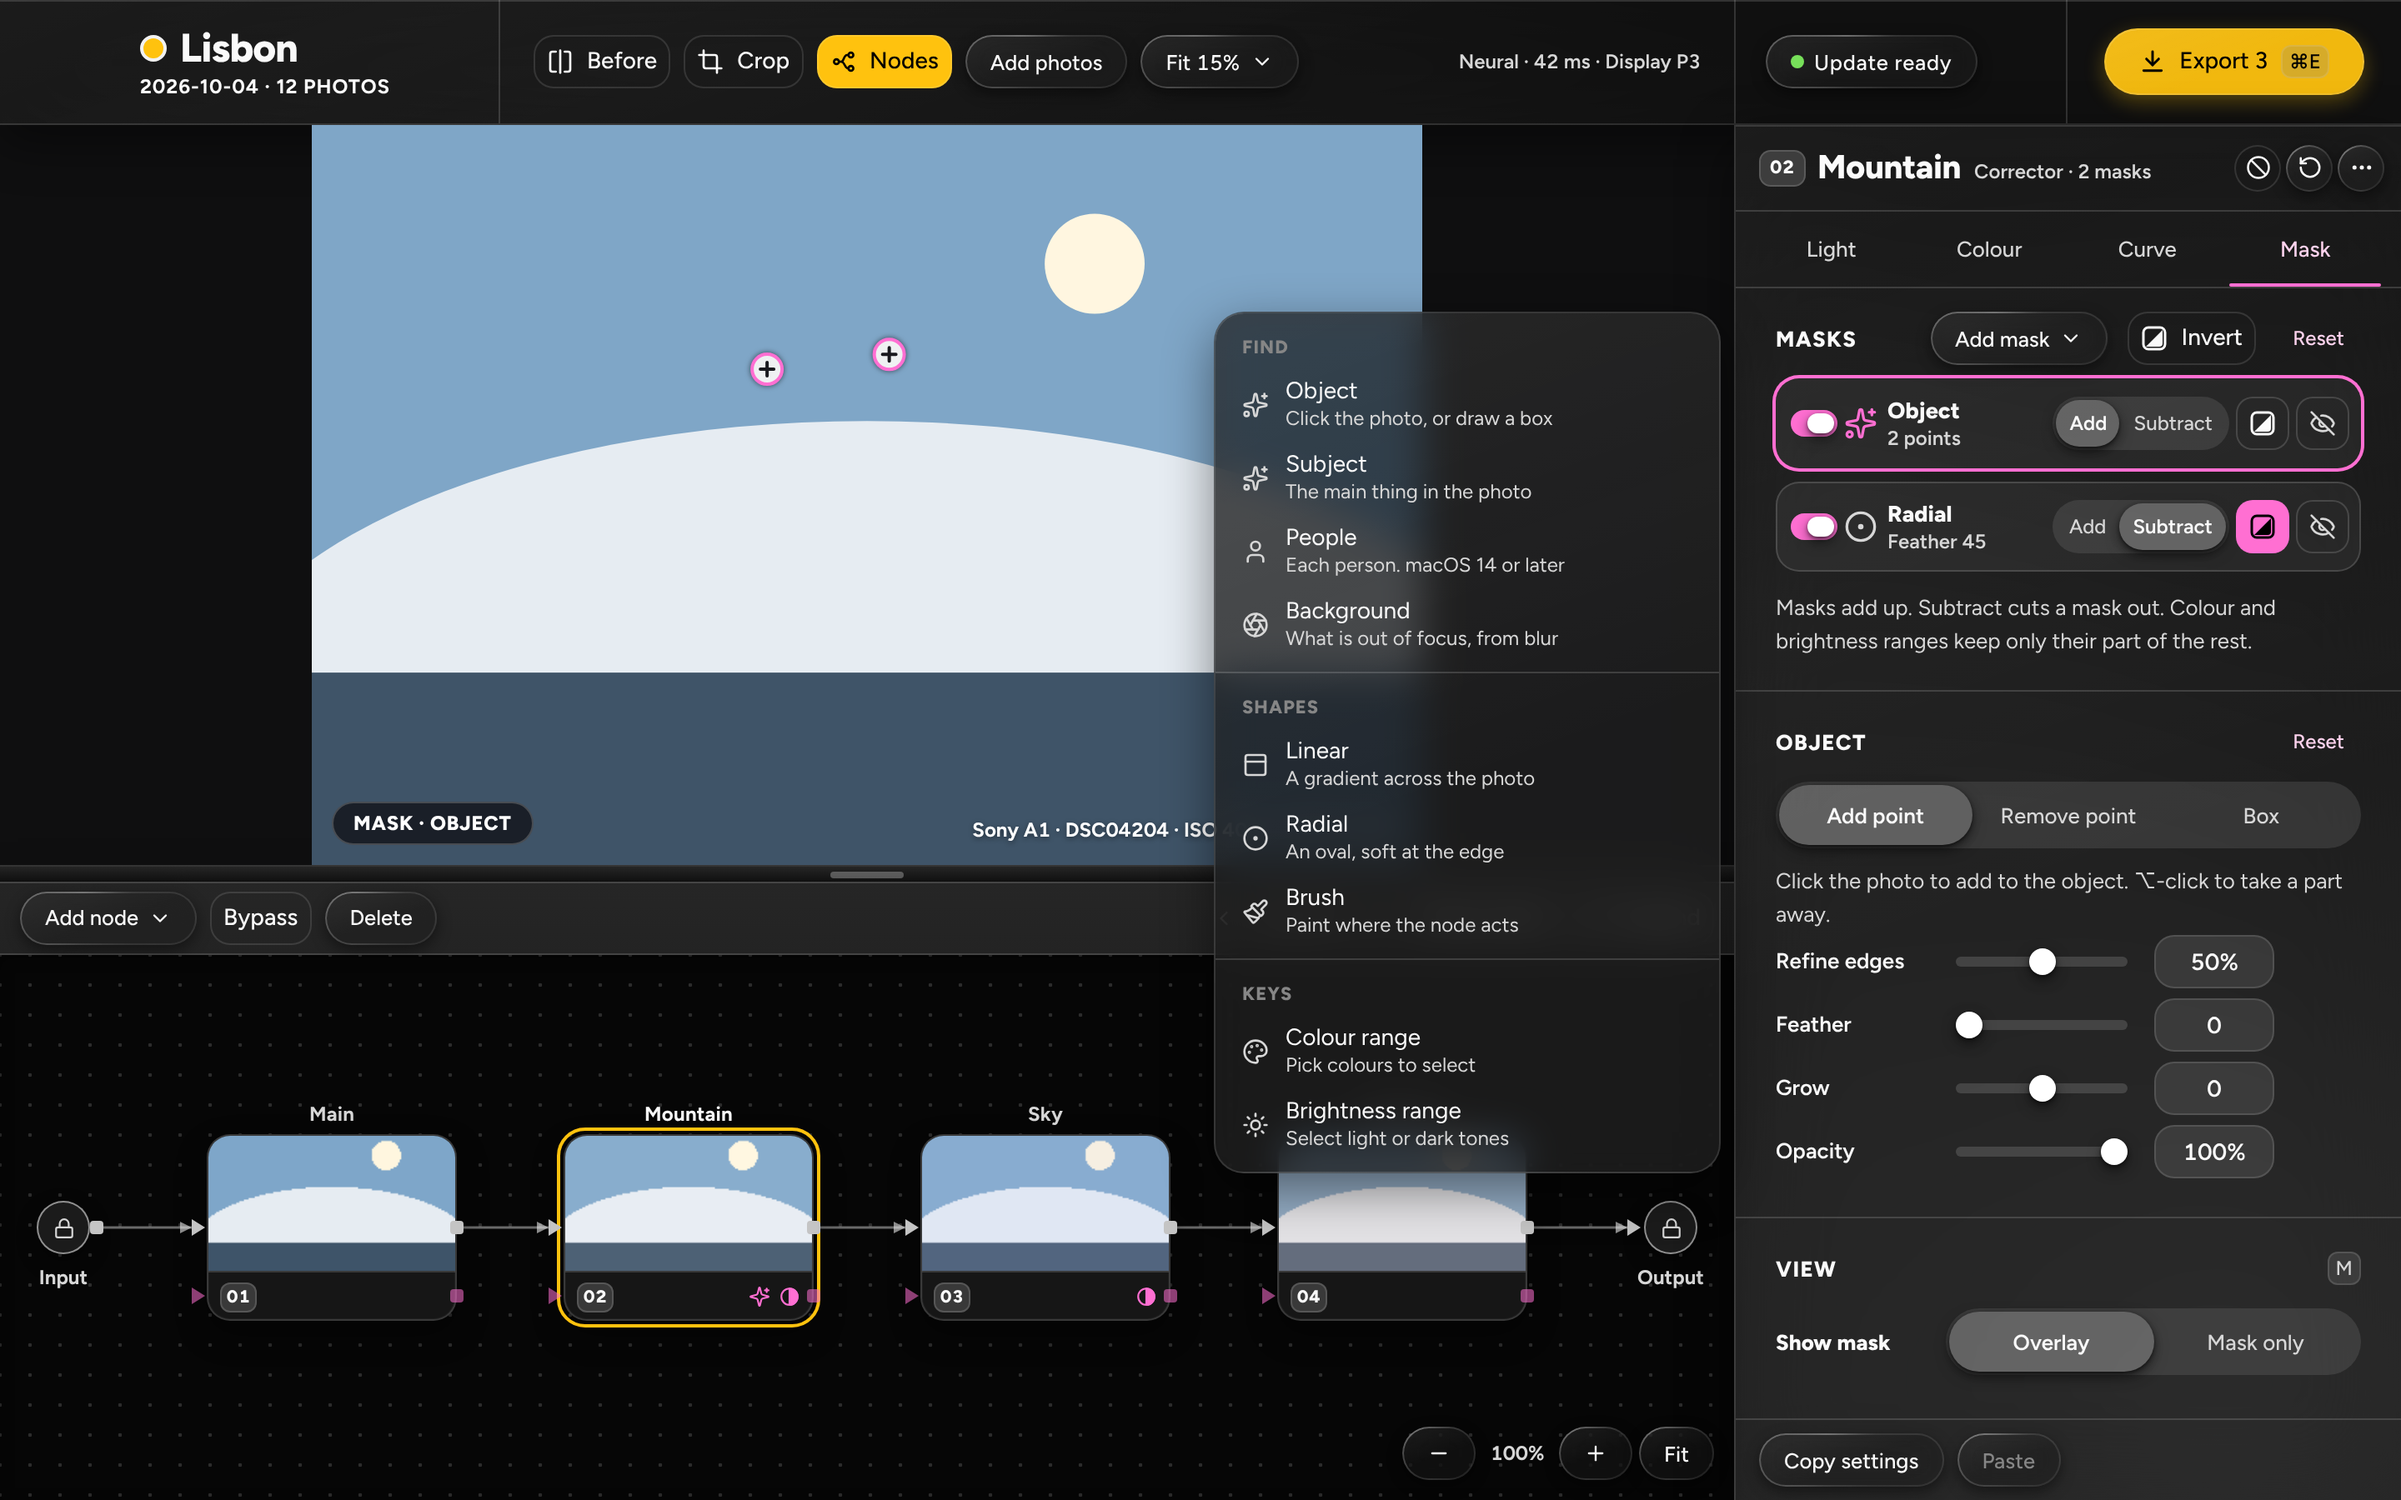
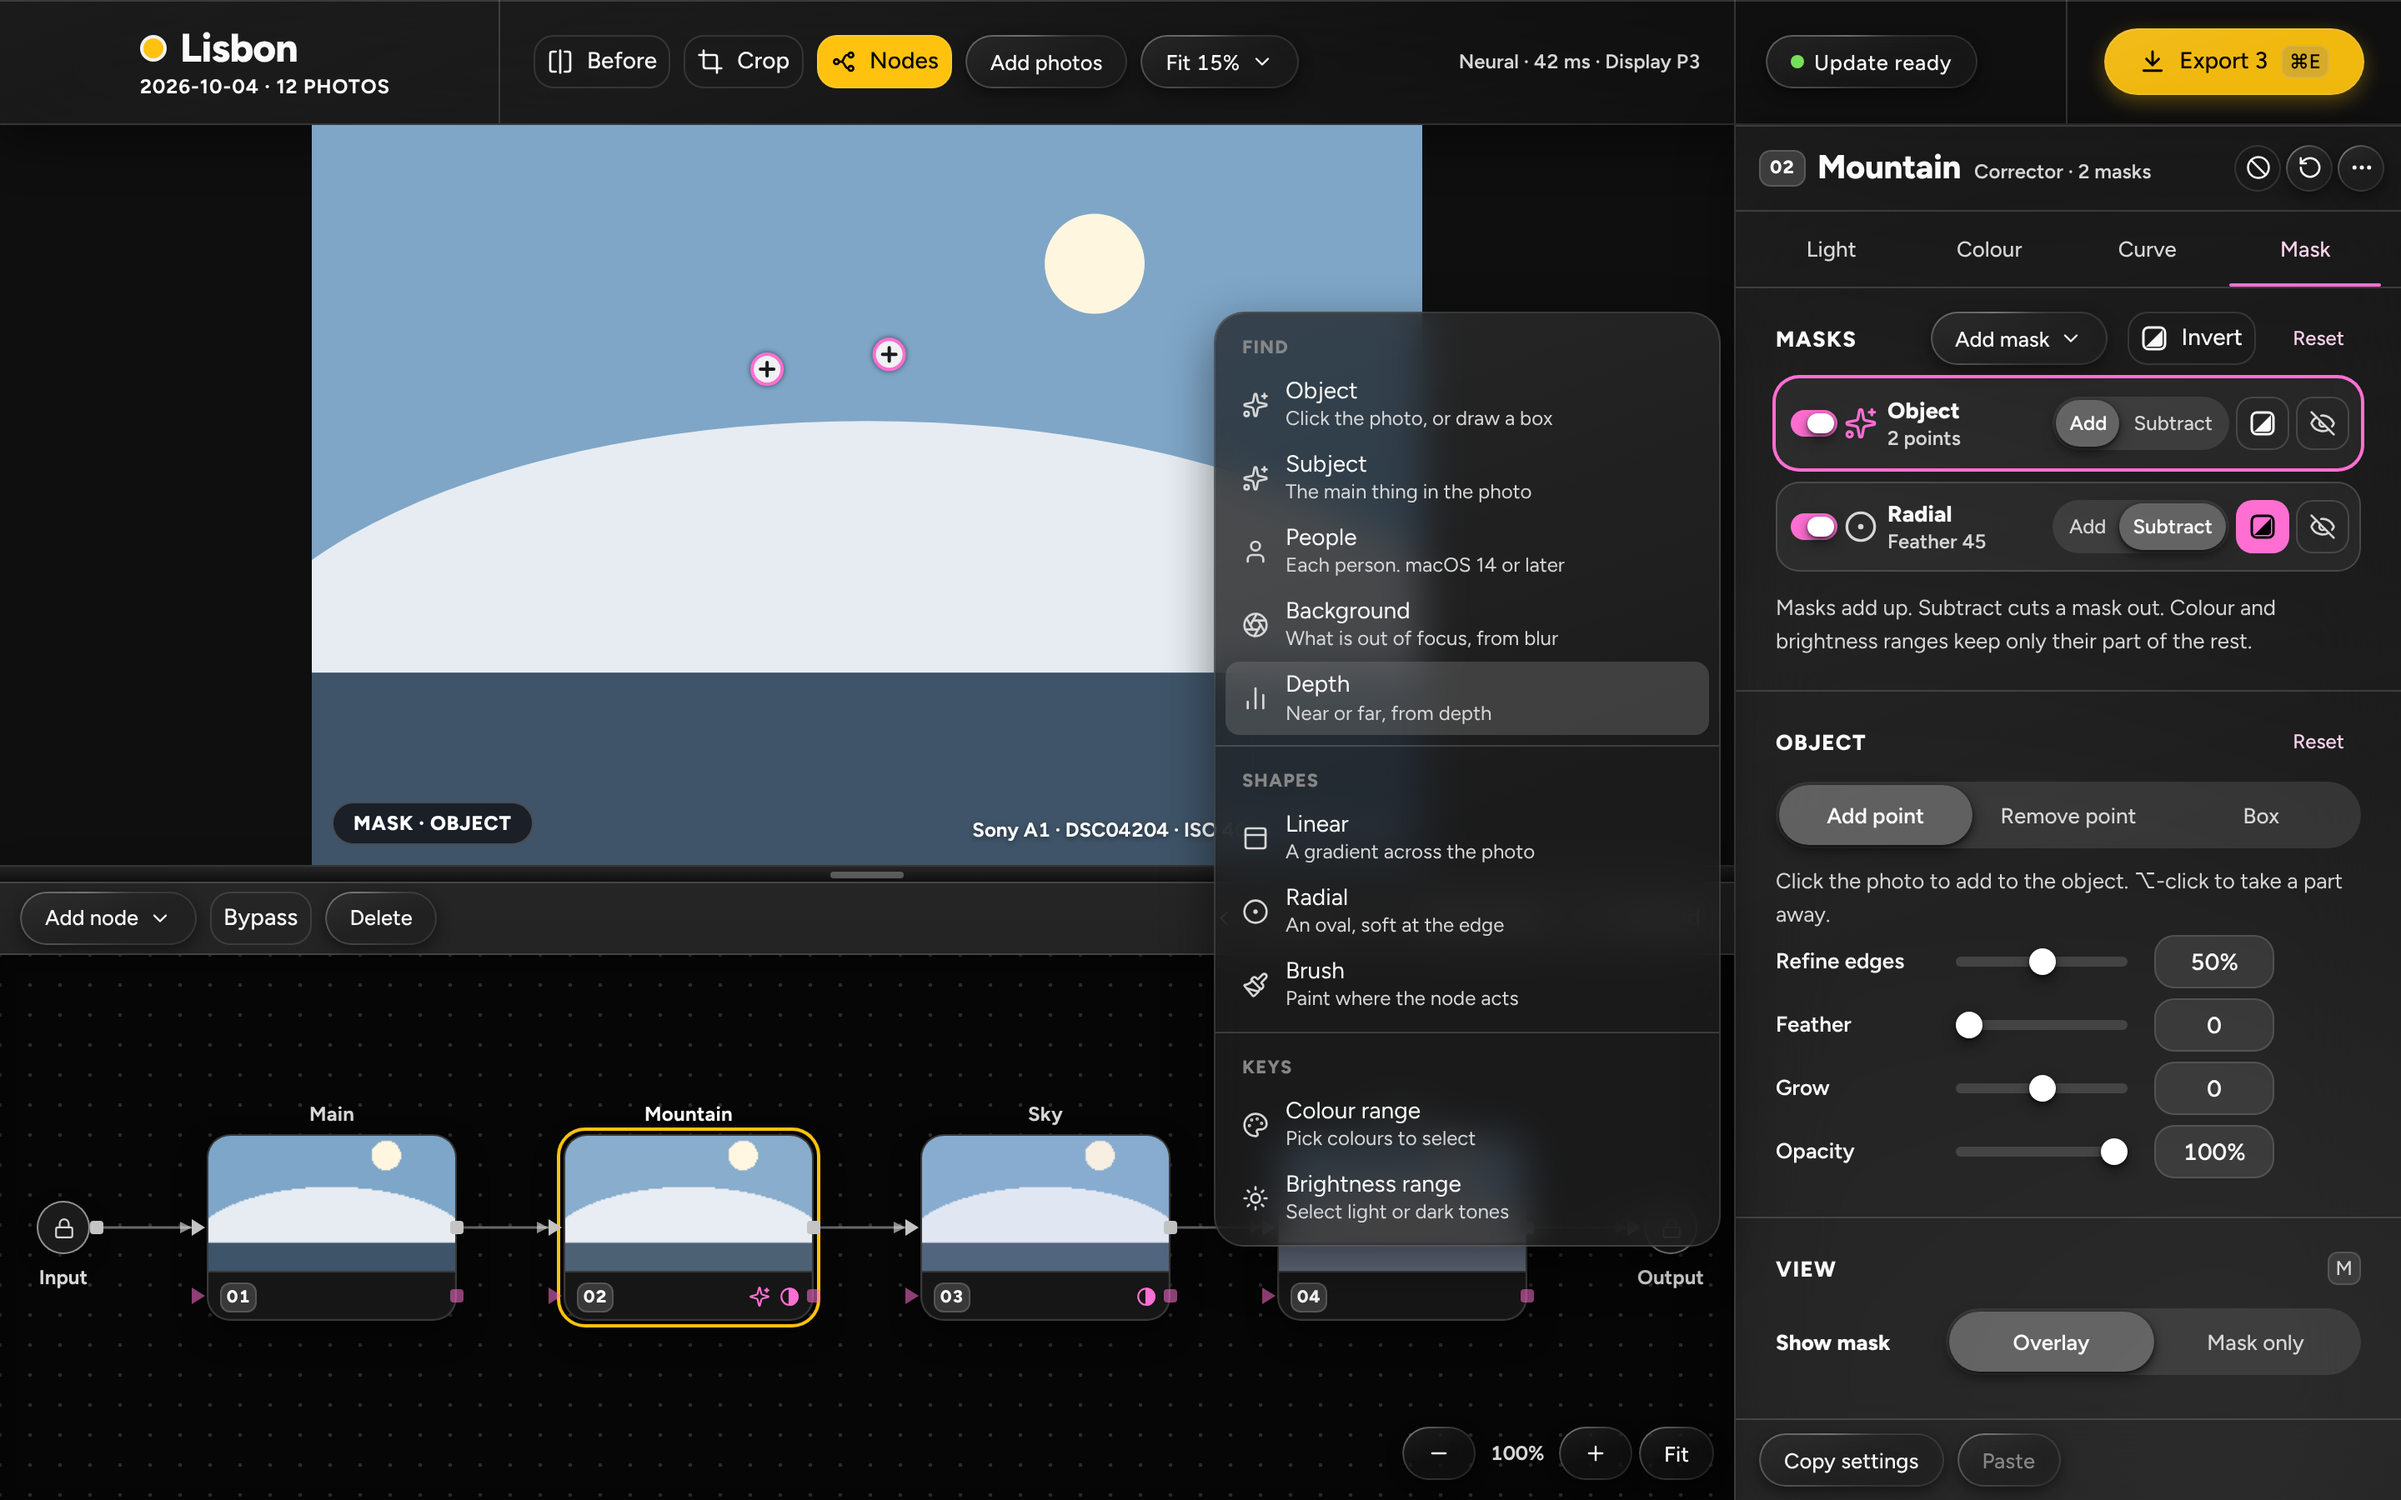
e2e: the Add mask menu has ten items with Depth (a11y, glass state, screenshot baseline)
CI run 42374515284 failed three e2e tests that still counted nine items.
a11y also checks Depth comes after Background. Baseline
photos-nodes-add-mask-menu.png regenerated alone.

Claude-Session: https://claude.ai/code/session_015yVsquBXWFc8zJt2CLktQS

Changed region(s): [[0.5, 0.4356, 0.7188, 0.8711]]

diff --git a/e2e/a11y.spec.ts b/e2e/a11y.spec.ts
@@ -728,7 +728,10 @@ test.describe("the node panel", () => {
     await page.getByRole("button", { name: "Add mask" }).click();
     let snapshot = await expectNamed(page, "the Add mask menu");
     expect(snapshot).toMatch(/- menu "Add mask":/);
-    expect(count(snapshot, "menuitem")).toBe(9);
+    expect(count(snapshot, "menuitem")).toBe(10);
+    // Depth is the last kind, after Background, and has a name like the others.
+    expect(snapshot).toMatch(/- menuitem "Depth[^"]*"/);
+    expect(snapshot.indexOf('- menuitem "Depth')).toBeGreaterThan(snapshot.indexOf('- menuitem "Background'));
     await page.keyboard.press("Escape");
     // A Linear's card and its handles.
     await page.getByRole("button", { name: /^Linear mask/ }).click();

diff --git a/e2e/screenshots.spec.ts b/e2e/screenshots.spec.ts
@@ -355,7 +355,7 @@ test.describe("Photos", () => {
     await page.getByRole("button", { name: "Object mask, 2 points" }).click();
     await page.getByRole("button", { name: "Add mask" }).click();
     await expect(page.getByRole("menu", { name: "Add mask" })).toBeVisible();
-    await expect(page.getByRole("menuitem")).toHaveCount(9);
+    await expect(page.getByRole("menuitem")).toHaveCount(10);
     await dialogsSettled(page);
     await compareScreen(page, "photos-nodes-add-mask-menu");
   });

diff --git a/e2e/helpers/states.ts b/e2e/helpers/states.ts
@@ -696,7 +696,7 @@ export const STATES: readonly PageState[] = [
       await p.getByRole("button", { name: "Object mask, 2 points" }).click();
       await p.getByRole("button", { name: "Add mask" }).click();
       await expect(p.getByRole("menu", { name: "Add mask" })).toBeVisible();
-      await expect(p.getByRole("menuitem")).toHaveCount(9);
+      await expect(p.getByRole("menuitem")).toHaveCount(10);
       await p.waitForTimeout(400);
     },
   ],
